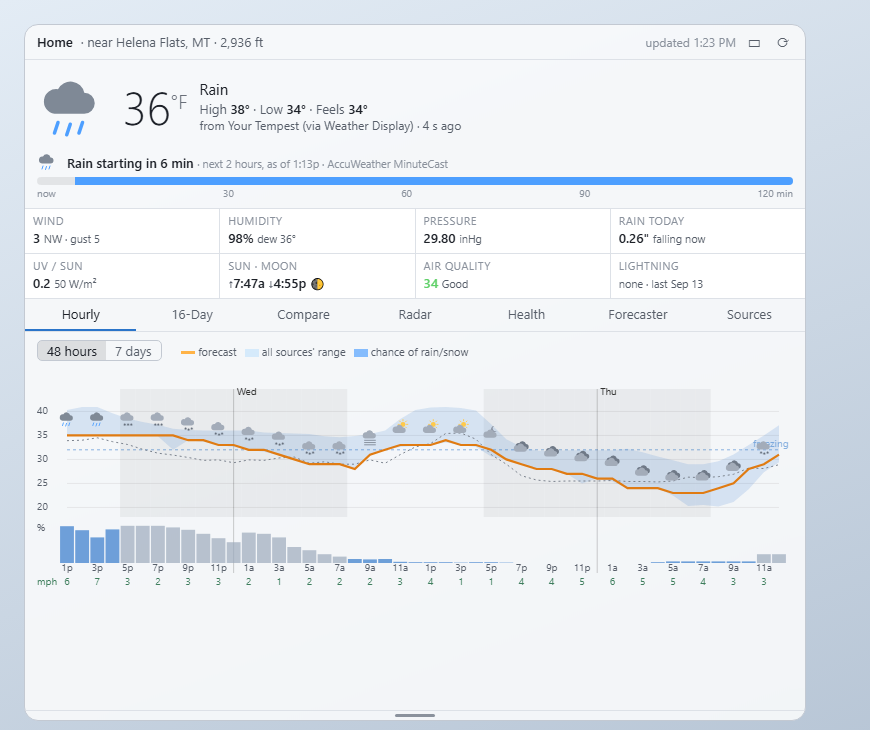
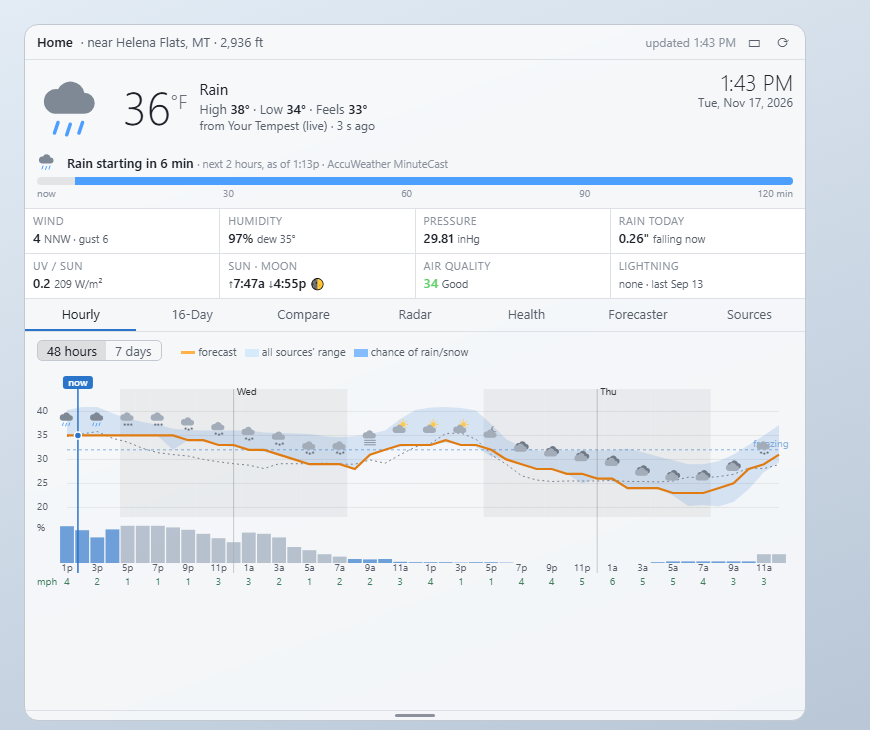
Accuracy-weighted averages, clock/date, 'now' line on the hourly chart
- Daily high/low weighted by 1/(avg miss)^2 (7+ scored days, kept within
  1/3-3x of a typical source); switch on Compare/Sources, remembered;
  tooltips show each source's share and the plain average
- Time and date at the top right, updated every second
- Blue 'now' line and dot on the hourly chart
- Station label shortened to 'Your Tempest (live)'
- README and screenshots updated

diff --git a/panel.html b/panel.html
@@ -53,7 +53,10 @@
   .alert .more { display: none; white-space: pre-wrap; color: var(--alertmore); margin-top: 6px; font-size: 12px; }
   .alert.open .more { display: block; }
 
-  .now { display: grid; grid-template-columns: 74px auto 1fr; gap: 4px 12px; padding: 10px 12px 6px; align-items: center; }
+  .now .clock { text-align: right; align-self: start; white-space: nowrap; }
+  .now .clock .tm { font-size: 22px; font-weight: 300; line-height: 1.1; }
+  .now .clock .dt { color: var(--dim); font-size: 12px; }
+  .now { display: grid; grid-template-columns: 74px auto 1fr auto; gap: 4px 12px; padding: 10px 12px 6px; align-items: center; }
   .now .big { font-size: 46px; font-weight: 300; line-height: 1; }
   .now .big sup { font-size: 20px; color: var(--dim); }
   .now .cond { font-size: 15px; }
@@ -153,6 +156,8 @@
   .acc.none { background: var(--track); color: var(--faint); font-weight: 400; }
   .accbar { color: var(--dim); font-size: 12px; margin: 2px 0 6px; cursor: help; }
   .accbar small { color: var(--faint); }
+  .wtog { display: block; margin-top: 3px; cursor: help; }
+  .wtog input { vertical-align: -2px; margin: 0 4px 0 0; cursor: pointer; }
   .accsel { background: var(--cell); color: var(--text); border: 1px solid var(--edge); border-radius: 4px; font: inherit; }
   .src { display: grid; grid-template-columns: 12px 1fr auto 52px; gap: 8px; align-items: center; padding: 3px 0; border-bottom: 1px solid var(--hair); }
   .src .note { color: var(--faint); font-size: 12px; }
@@ -261,6 +266,14 @@ function windTip(w) {
   if (y) lines.push(`Max yesterday: wind ${f0(y.wind)} mph, gust ${f0(y.gust)} mph` + (y.since && y.since !== "00:00" ? ` (from ${hhmm(y.since)})` : ""));
   return lines.join("\n");
 }
+// Clock at the top right, updated every second.
+function tick() {
+  const n = new Date(), t = $("clkT"), d = $("clkD");
+  if (!t) return;
+  t.textContent = n.toLocaleTimeString("en-US", { hour: "numeric", minute: "2-digit" });
+  d.textContent = n.toLocaleDateString("en-US", { weekday: "short", month: "short", day: "numeric", year: "numeric" });
+}
+setInterval(tick, 1000);
 const moonGlyph = p => ["🌑","🌒","🌓","🌔","🌕","🌖","🌗","🌘"][Math.round(p * 8) % 8];
 const esc = s => String(s ?? "").replace(/[&<>"]/g, c => ({ "&": "&amp;", "<": "&lt;", ">": "&gt;", '"': "&quot;" }[c]));
 function ago(iso) {
@@ -283,7 +296,9 @@ function render() {
     <div class="big">${f0(n.temp)}<sup>°F</sup></div>
     <div><div class="cond">${esc(n.text || "")}</div>
       <div class="hilo">High <b>${f0(today.hi)}°</b> · Low <b>${f0(today.lo)}°</b> · Feels <b>${f0(n.feels)}°</b></div>
-      <div class="from">from ${esc(n.station || "–")} · ${n.age_s != null ? (n.age_s < 60 ? n.age_s + " s ago" : ago(n.time)) : ago(n.time)}</div></div>`;
+      <div class="from">from ${esc(n.station || "–")} · ${n.age_s != null ? (n.age_s < 60 ? n.age_s + " s ago" : ago(n.time)) : ago(n.time)}</div></div>
+    <div class="clock"><div class="tm" id="clkT"></div><div class="dt" id="clkD"></div></div>`;
+  tick();
 
   const aq = aqiInfo(D.air?.us_aqi);
   const trendArrow = { rising: "↗", falling: "↘", steady: "→" }[n.trend] || "";
@@ -383,6 +398,16 @@ function renderHourly(force) {
     s += `<text x="${x(i)}" y="${bot - 20}" text-anchor="middle">${hourLabel(h.t)}</text>`;
     s += `<text x="${x(i)}" y="${bot - 6}" text-anchor="middle" style="fill:var(--cwind)">${f0(h.wind)}</text>`; });
   s += `<text x="0" y="${bot - 6}" style="fill:var(--cwind)">mph</text>`;
+  // "Now" marker: where the current time falls between the first hours of the chart.
+  const frac = (Date.now() - new Date(H[0].t)) / 3600000;
+  if (frac >= 0 && frac <= H.length - 1) {
+    const xn = x(0) + frac * (W - 44) / (H.length - 1), i0 = Math.floor(frac), f = frac - i0;
+    const tn = H[i0].temp + ((H[i0 + 1]?.temp ?? H[i0].temp) - H[i0].temp) * f;
+    s += `<line x1="${xn}" x2="${xn}" y1="${top - 8}" y2="${bot - 18}" style="stroke:var(--accent)" stroke-width="1.5"/>
+      <circle cx="${xn}" cy="${y(tn)}" r="3.5" style="fill:var(--accent);stroke:var(--cell)" stroke-width="1.5"/>
+      <rect x="${xn - 15}" y="${top - 21}" width="30" height="13" rx="3" style="fill:var(--accent)"/>
+      <text x="${xn}" y="${top - 11}" text-anchor="middle" style="fill:var(--cell);font-weight:600">now</text>`;
+  }
   s += `<line id="cur" y1="${top - 8}" y2="${bot - 18}" style="stroke:var(--ccur)" visibility="hidden"/>`;
   $("t-hourly").innerHTML = `<div><span class="seg" id="span"><span data-h="48" class="${hourSpan === 48 ? "on" : ""}">48 hours</span><span data-h="168" class="${hourSpan === 168 ? "on" : ""}">7 days</span></span>
     <span class="legend"><i style="background:#ffb347"></i>forecast<i style="background:#7cc4ff44;height:8px"></i>all sources' range<i style="background:#4d9fffaa;height:8px"></i>chance of rain/snow</span></div>
@@ -427,7 +452,7 @@ function renderDaily() {
       ${myP.map(p => `<p><b>${p.name}:</b> ${esc(p.detail)}</p>`).join("")}
       ${dd.sunrise ? `<p>Sunrise ${clock(dd.sunrise)} · sunset ${clock(dd.sunset)} · UV ${dd.uv ?? "–"}${dd.snow ? ` · snow ${dd.snow.toFixed(1)}"` : ""}${dd.precip ? ` · precip ${dd.precip.toFixed(2)}"` : ""} · gusts ${f0(dd.gust)} mph</p>` : ""}
       <table>${srcRows}</table></div>`;
-  }).join("") + `<p style="color:var(--faint);font-size:11px;margin:8px 0 0">High/low = average of all sources. Thin marks = the coldest low and warmest high any source predicts. Dot = how well the sources agree (green good, yellow fair, red they disagree). Click a day for details.</p>`;
+  }).join("") + `<p style="color:var(--faint);font-size:11px;margin:8px 0 0">High/low = ${W ? "average of all sources, weighted so the most accurate ones count more (switch on the Compare tab)" : "average of all sources"}. Thin marks = the coldest low and warmest high any source predicts. Dot = how well the sources agree (green good, yellow fair, red they disagree). Click a day for details.</p>`;
 }
 function periodDate(p) {
   // NWS period names: "Today", "Tonight", "Wednesday", "Wednesday Night"...
@@ -467,30 +492,68 @@ function accuracy() {
   ranked.forEach(([s], i) => { out[s].rank = i + 1; out[s].of = ranked.length; });
   return { by: out, days: rows.length };
 }
+// Weighted averages: each source counts 1 / (its average miss)², so more accurate sources count
+// more. Needs 7 scored days, else the source counts as a typical one; weights are kept between
+// 1/3 and 3 times the typical weight. The switch on the Compare tab turns this off.
+let weighted = true, W = null;
+function sourceWeights(A) {
+  const scored = Object.entries(A.by).filter(([, a]) => a.n >= 7 && a.mae > 0).map(([s, a]) => [s, 1 / (a.mae * a.mae)]);
+  if (!scored.length) return null;
+  const ws = scored.map(([, w]) => w).sort((a, b) => a - b), typical = ws[Math.floor(ws.length / 2)];
+  const out = { _typical: typical };
+  for (const [s, w] of scored) out[s] = Math.max(typical / 3, Math.min(typical * 3, w));
+  return out;
+}
+function applyWeights() {
+  W = weighted ? sourceWeights(accuracy()) : null;
+  for (const d of D.days)
+    for (const k of ["hi", "lo"]) {
+      if (d[k + "_simple"] === undefined) d[k + "_simple"] = d[k];
+      if (!W) { d[k] = d[k + "_simple"]; continue; }
+      let sum = 0, wsum = 0;
+      for (const [s, v] of Object.entries(d.by))
+        if (v[k] != null) { const w = W[s] ?? W._typical; sum += v[k] * w; wsum += w; }
+      if (wsum) d[k] = Math.round(sum / wsum);
+    }
+}
+const shareOf = s => { if (!W) return null; const tot = Object.keys(D.days[1]?.by || {}).reduce((t, x) => t + (W[x] ?? W._typical), 0);
+  return Math.round((W[s] ?? W._typical) / tot * 100); };
+
 function accBadge(src, A) {
   const a = A.by[src];
   if (!a || !a.rank) {
     const n = a ? a.n : 0;
+    const share = shareOf(src);
     return `<span class="acc none" title="${esc(`${src}: not enough history yet (${n} day${n === 1 ? "" : "s"} scored, needs 3).\n` +
-      "WeatherDial saves each source's forecasts and checks them against your station every day, so this fills in by itself.")}">${n ? n + "d" : "…"}</span>`;
+      "WeatherDial saves each source's forecasts and checks them against your station every day, so this fills in by itself." +
+      (share != null ? `\nIn the weighted average it counts as a typical source for now (about ${share}%).` : ""))}">${n ? n + "d" : "…"}</span>`;
   }
   const g = a.of > 1 ? 5 - 4 * (a.rank - 1) / (a.of - 1) : 5;
   const lean = Math.abs(a.bias) < 0.75 ? "No consistent lean warm or cold."
     : `Tends to run ${Math.abs(a.bias).toFixed(1)}° too ${a.bias > 0 ? "warm" : "cold"}.`;
+  const share = shareOf(src);
   const tip = `${src}: next-day forecast vs your station, last ${accDays} days (${a.n} days scored)\n` +
     `Off by ${a.mae.toFixed(1)}° on average (highs ${a.mhi?.toFixed(1) ?? "–"}°, lows ${a.mlo?.toFixed(1) ?? "–"}°).\n` +
-    `${lean}\nRanks #${a.rank} of ${a.of}. Lower is better.`;
+    `${lean}\nRanks #${a.rank} of ${a.of}. Lower is better.` +
+    (share != null ? `\nShare of the weighted average: about ${share}%${a.n < 7 ? " (counts as a typical source until it has 7 days)" : ""}.` : "");
   return `<span class="acc" style="background:${goodCol(Math.round(g))}" title="${esc(tip)}">±${a.mae.toFixed(1)}°</span>`;
 }
+const WEIGHT_EXPLAIN = "On: each day's high and low is a weighted average, so the sources that have been " +
+  "most accurate at your place (over the period chosen beside it) count more. A source's weight is " +
+  "1 ÷ (its average miss)², kept between ⅓ and 3 times a typical source's weight. Sources with less " +
+  "than 7 days of history count as typical.\nOff: every source counts the same.";
 function accSelector(A) {
-  return `<div class="accbar" title="${esc(ACC_EXPLAIN)}">Accuracy ⓘ over the last
+  return `<div class="accbar"><span title="${esc(ACC_EXPLAIN)}">Accuracy ⓘ over the last
     <select class="accsel">${ACC_CHOICES.map(n => `<option value="${n}" ${n === accDays ? "selected" : ""}>${n}</option>`).join("")}</select>
-    days <small>(${A.days} day${A.days === 1 ? "" : "s"} of your station's highs and lows so far)</small></div>`;
+    days</span> <small>(${A.days} day${A.days === 1 ? "" : "s"} of your station's highs and lows so far)</small>
+    <label class="wtog" title="${esc(WEIGHT_EXPLAIN)}"><input type="checkbox" class="wchk" ${weighted ? "checked" : ""}> Weight the averages by accuracy ⓘ</label></div>`;
 }
 document.addEventListener("change", e => {
-  if (!e.target.classList.contains("accsel")) return;
-  accDays = +e.target.value; app()?.remember("acc_days", accDays);
-  renderCompare(); renderSources();
+  const t = e.target;
+  if (t.classList.contains("accsel")) { accDays = +t.value; app()?.remember("acc_days", accDays); }
+  else if (t.classList.contains("wchk")) { weighted = t.checked; app()?.remember("weighted", weighted); }
+  else return;
+  applyWeights(); render();
 });
 
 function renderCompare() {
@@ -504,7 +567,10 @@ function renderCompare() {
     return `<td title="${esc(tip)}"><span class="${dev(v.hi, d.hi)}">${f0(v.hi)}</span><span style="color:var(--faint)">/</span><span class="${dev(v.lo, d.lo)}">${f0(v.lo)}</span></td>`; };
   let h = `<h4>Highs / lows by source</h4>${accSelector(A)}<table class="cmp"><tr><th></th><th title="${esc(ACC_EXPLAIN)}">Accuracy ⓘ</th>${days.map((d, i) => `<th>${i ? dayName(d.date) : "Today"}</th>`).join("")}</tr>`;
   h += srcs.map(s => `<tr><td>${s}</td><td>${accBadge(s, A)}</td>${days.map((d, i) => cell(d, s, i)).join("")}</tr>`).join("");
-  h += `<tr class="cons"><td>Average</td><td></td>${days.map(d => `<td title="Average of ${d.hi_n} sources: high ${f0(d.hi)}°, low ${f0(d.lo)}°">${f0(d.hi)}/${f0(d.lo)}</td>`).join("")}</tr>`;
+  const avgTip = d => W
+    ? `Weighted average of ${d.hi_n} sources (the more accurate ones count more): high ${f0(d.hi)}°, low ${f0(d.lo)}°.\nPlain average would be ${f0(d.hi_simple)}° / ${f0(d.lo_simple)}°.`
+    : `Average of ${d.hi_n} sources, all counting the same: high ${f0(d.hi)}°, low ${f0(d.lo)}°`;
+  h += `<tr class="cons"><td title="${esc(W ? WEIGHT_EXPLAIN : "Every source counts the same.")}">${W ? "Weighted avg ⓘ" : "Average"}</td><td></td>${days.map(d => `<td title="${esc(avgTip(d))}">${f0(d.hi)}/${f0(d.lo)}</td>`).join("")}</tr>`;
   h += `<tr><td style="color:var(--dim)">Spread (highs)</td><td></td>${days.map(d => `<td style="color:var(--dim)" title="Warmest high ${d.hi_max}° minus coldest high ${d.hi_min}°. Bigger = the sources disagree more.">${d.hi_max - d.hi_min}°</td>`).join("")}</tr></table>`;
   h += `<p style="color:var(--dim);font-size:11px;margin-top:6px">Each cell is <b>high/low</b>. <span class="dev-hi">Red</span> = 4° or more <b>warmer</b> than the average of all sources that day; <span class="dev-lo">blue</span> = 4° or more <b>colder</b>. White = within 4°. Hover over a cell for details.</p>`;
   h += `<h4>Right now</h4><table class="cmp"><tr><th>Reading</th><th>Temp</th><th>Wind</th><th>Humidity</th><th>Pressure</th></tr>` +
@@ -698,7 +764,9 @@ window.addEventListener("pywebviewready", async () => {
   if (s.tabh) setTabHeight(s.tabh, false);
   if (s.pw) setPanelWidth(s.pw, false);
   setTheme(s.theme || "dark", false);
-  if (s.acc_days) { accDays = s.acc_days; if (D) { renderCompare(); renderSources(); } }
+  if (s.acc_days) accDays = s.acc_days;
+  if (s.weighted === false) weighted = false;
+  if (D) { applyWeights(); render(); }
   const r = $("panel").getBoundingClientRect();
   app().fit(Math.ceil(r.right) + 1, Math.ceil(r.bottom) + 1);
 });
@@ -712,6 +780,7 @@ async function load(force) {
       D.minutecast = D.indices = null;
       if (D.now) ["strikes_3h", "strike_dist", "strike_time", "rain_yesterday"].forEach(k => delete D.now[k]);
     }
+    applyWeights();
     const openDays = [...document.querySelectorAll(".detail.open")].map(x => x.id);
     const scrolls = [...document.querySelectorAll(".tab")].map(t => t.scrollTop);   // keep your place
     render();
@@ -722,7 +791,11 @@ async function load(force) {
 load().then(() => {   // ?tab=daily / ?compact: open that way (used for screenshots)
   if (Q.get("tab")) showTab(Q.get("tab"));
   if (Q.has("compact")) setCompact(true);
-  if (Q.get("acc")) { accDays = +Q.get("acc"); renderCompare(); renderSources(); }
+  if (Q.get("acc") || Q.has("simple")) {
+    if (Q.get("acc")) accDays = +Q.get("acc");
+    if (Q.has("simple")) weighted = false;
+    applyWeights(); render();
+  }
   if (Q.get("pw")) setPanelWidth(+Q.get("pw"), false);
   if (Q.get("theme")) setTheme(Q.get("theme"), false);
   if (Q.get("tabh")) setTabHeight(+Q.get("tabh"), false, true);

diff --git a/app.py b/app.py
@@ -183,10 +183,11 @@ class Api:
         return {"locked": self._pos.get("locked", False), "compact": self._pos.get("compact", False),
                 "zoom": self._pos.get("zoom", 1), "tab": self._pos.get("tab", "hourly"),
                 "tabh": self._pos.get("tabh"), "pw": self._pos.get("pw"),
-                "theme": self._pos.get("theme", "dark"), "acc_days": self._pos.get("acc_days", 30)}
+                "theme": self._pos.get("theme", "dark"), "acc_days": self._pos.get("acc_days", 30),
+                "weighted": self._pos.get("weighted", True)}
 
     def remember(self, key, value):
-        if key in ("compact", "zoom", "tab", "tabh", "pw", "theme", "acc_days"):
+        if key in ("compact", "zoom", "tab", "tabh", "pw", "theme", "acc_days", "weighted"):
             self._set(**{key: value})
 
     def toggle_lock(self):

diff --git a/weather.py b/weather.py
@@ -579,7 +579,7 @@ def src_weather_display(cfg, keys, clock):
         diff = plog[-1][1] - old[0][1]
         trend = "rising" if diff > .03 else "falling" if diff < -.03 else "steady"
     wx = WD_WEATHER.get(q.get("weather") or "")
-    return {"now": {"station": "Your Tempest (via Weather Display)", "time": clock.from_epoch(when.timestamp()).isoformat(),
+    return {"now": {"station": "Your Tempest (live)", "time": clock.from_epoch(when.timestamp()).isoformat(),
                     "temp": r1(temp), "feels": r1(feels), "rh": r0(rh), "dew": r1(f("dewptf")),
                     "wind": r0(wind), "gust": r0(f("windgustmph")), "dir": f("winddir"),
                     "pressure": f("baromin"), "trend": trend, "uv": f("UV"), "solar": f("solarradiation"),

diff --git a/README.md b/README.md
@@ -8,6 +8,7 @@ live readings on top.
 
 ## What it shows
 
+- **Clock:** the time and date at the top right.
 - **Now:** your own station (Tempest) if you have one, else the nearest official station,
   else the model. Shows wind and gusts, humidity and dew point, pressure and its 3-hour trend,
   rain today, UV and solar, sunrise and sunset, moon, air quality and lightning.
@@ -18,8 +19,9 @@ live readings on top.
 - **Hourly:** a 48-hour or 7-day chart. It shows the forecast line (the official NWS forecast
   where it has one), a shaded band for the range of all sources, feels-like (dotted),
   chance of rain or snow (blue bars for rain, white for snow), wind, night shading and the
-  freezing line.
-- **16-Day:** the average of all sources for each day, with a coloured dot for how well they
+  freezing line. A blue **now** line (with a dot on the temperature line) marks the current
+  moment.
+- **16-Day:** the average of all sources for each day (weighted by accuracy, see below), with a coloured dot for how well they
   agree.
 - **Compare:** every source's highs and lows side by side, plus the current readings from
   your station, the nearest airport and the model.
@@ -171,7 +173,8 @@ Underground. Weather Display can do that upload for you.
 
 ## How the numbers are worked out
 
-- **Daily high and low** = the average of every source that forecasts that day. Every
+- **Daily high and low** = the average of every source that forecasts that day, weighted by
+  accuracy unless you switch that off. Every
   source's low is the *calendar-day* low (that morning). AccuWeather gives the following
   night's low instead, so its lows are moved to the next day to line up.
 - **Agreement dot** (16-Day): green when all sources' highs and lows are within 5°, yellow
@@ -205,6 +208,17 @@ Underground. Weather Display can do that upload for you.
   WeatherDial first saves them. Until a source has 3 days, its badge shows how many it has
   so far.
 - The history is kept in `data/verify/` (about a year).
+
+**Weighted averages** (on by default; switch: *Weight the averages by accuracy* on the Compare
+and Sources tabs). Each day's high and low then count the more accurate sources more:
+
+- A source's weight is 1 ÷ (its average miss)². With a 3.3° miss it counts about three times
+  as much as a source with a 5.6° miss.
+- It's kept between ⅓ and 3 times a typical source's weight, so no single source takes over.
+- A source with less than 7 days of history counts as a typical source.
+- The weights follow the period chosen in the accuracy box.
+- Hover a badge to see that source's share of the average. Hover a **Weighted avg** cell to
+  compare it with the plain average.
 
 ## How fresh is each part?
 
